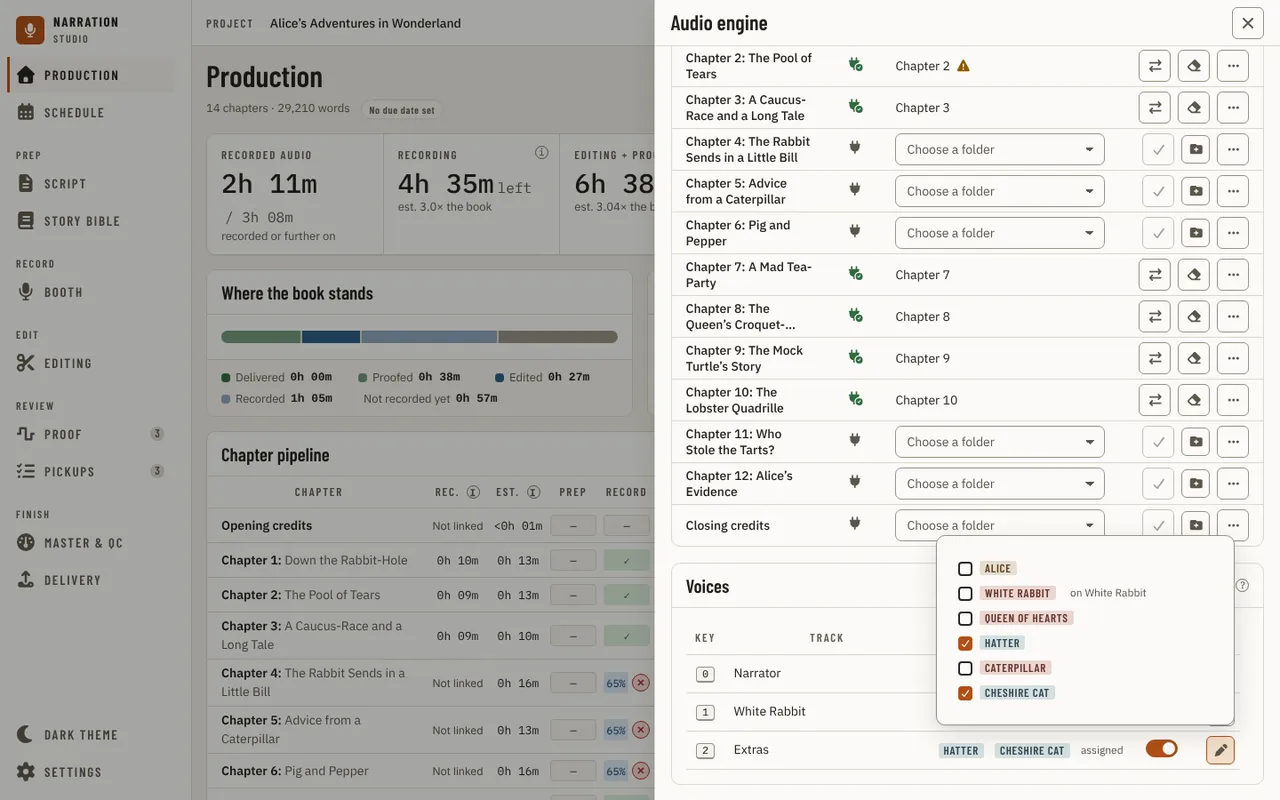
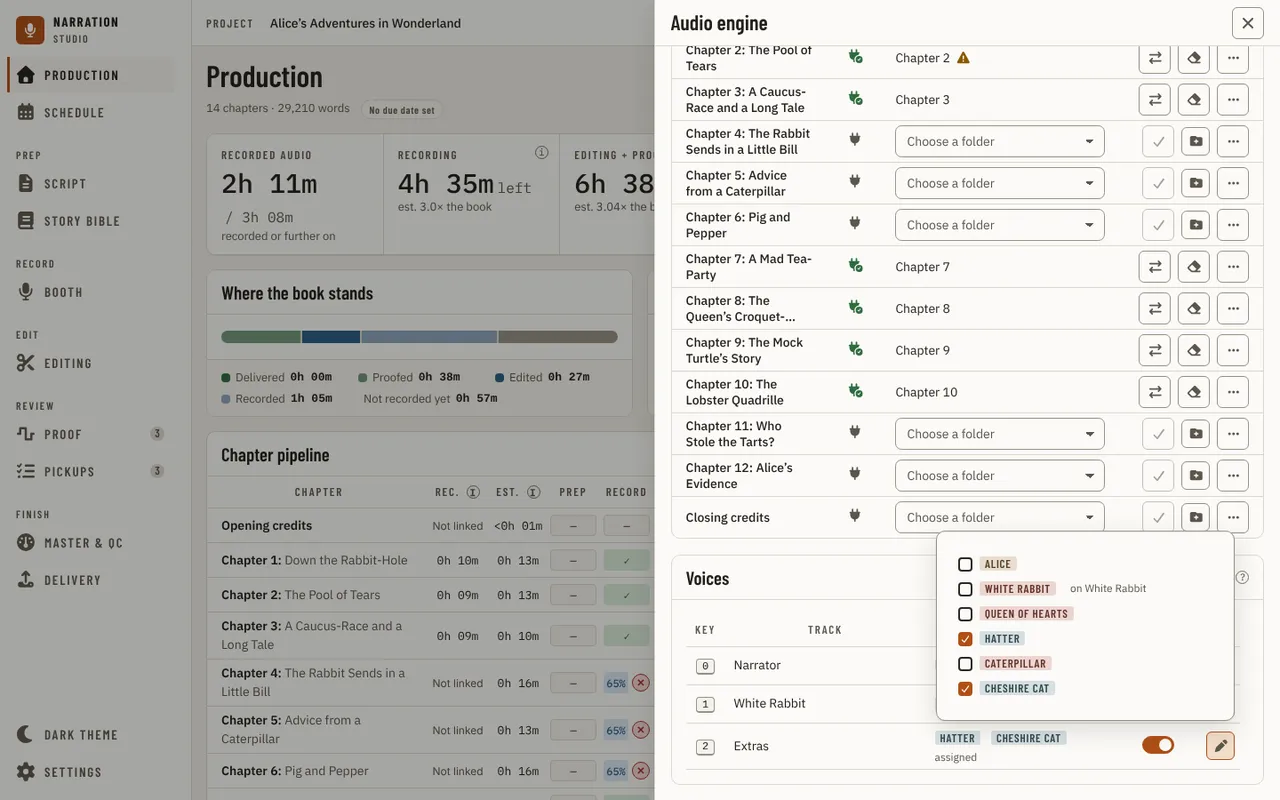
fix(ui): say what the Voice column, the Not a voice badge and the disabled edit button mean (#3875)

diff --git a/src/studio/ui/src/components/engine/VoicesCard.tsx b/src/studio/ui/src/components/engine/VoicesCard.tsx
@@ -34,6 +34,8 @@ const DIMMED = 'text-[var(--text-muted)]';
 const RECORDING_REASON = 'A take is recording. Stop it before you change which tracks are voices.';
 /** What the switch says it does, short: a hint wider or taller than this hides the switches of the rows above it. */
 const SWITCH_HINT = 'Counts as a voice. Turn off for a track that is not one (a music bed).';
+/** What the "Not a voice" badge says of its row. */
+const NOT_A_VOICE_HINT = 'Turned off as a voice: no key, no character, and the Booth does not list it. Turn its switch back on to use it.';
 /** The explanation behind the card's help button: a shorter form of the Settings row's "?" text. */
 const SWITCH_HELP =
   'Each switch says whether a track of the folder counts as a voice. Turn it off for a track that is not one, such as a music bed or room tone: it gets no number key, records no character, and the Booth does not list it. The voices after it each take the key before theirs.';
@@ -180,13 +182,13 @@ export function VoicesCard({
             </p>
           ) : (
             <div className="max-h-[min(60vh,26rem)] overflow-auto">
-              <Table label={`Voices of ${current?.chapter.title ?? ''}`} columns={narrow ? ['auto', '7.25rem'] : ['2.75rem', 'auto', 'auto', '4.5rem', '3rem']}>
+              <Table label={`Voices of ${current?.chapter.title ?? ''}`} columns={narrow ? ['auto', '7.25rem'] : ['2.75rem', 'auto', 'auto', '5rem', '3rem']}>
                 <TableHead sticky>
                   <TableRow>
                     {!narrow && <TableHeader>Key</TableHeader>}
                     <TableHeader>{narrow ? 'Track and characters' : 'Track'}</TableHeader>
                     {!narrow && <TableHeader>Characters</TableHeader>}
-                    {!narrow && <TableHeader>Voice</TableHeader>}
+                    {!narrow && <TableHeader info={SWITCH_HINT}>Voice</TableHeader>}
                     <TableHeader hiddenLabel={narrow ? 'Voice and actions' : 'Actions'} />
                   </TableRow>
                 </TableHead>
@@ -255,7 +257,12 @@ export function VoicesCard({
 }
 
 function VoiceCharacters({ voice }: { voice: Voice }) {
-  if (voice.notVoice) return <StatusBadge tone="neutral" label="Not a voice" />;
+  if (voice.notVoice)
+    return (
+      <TooltipTarget text={NOT_A_VOICE_HINT}>
+        <StatusBadge tone="neutral" label="Not a voice" />
+      </TooltipTarget>
+    );
   if (voice.characters.length === 0) return <span style={{ color: 'var(--text-muted)' }}>{voice.narrator ? 'Narration' : 'No character'}</span>;
   return (
     <span className="flex flex-wrap items-center gap-1">
@@ -325,6 +332,7 @@ function CharacterPicker({
   if (voice.notVoice) {
     const reason = 'Not a voice: it records no character. Turn it back on to choose one.';
     const name = voice.name.trim() === '' ? `Choose who ${placeName} records` : `Choose who the ${shortName(placeName)} track records`;
+    // IconButton shows its disabledReason as a tooltip itself.
     return <IconButton label={name} action="edit" size="sm" disabledReason={reason} />;
   }
   const label = voice.narrator

diff --git a/src/studio/ui/src/components/engine/VoicesCard.test.tsx b/src/studio/ui/src/components/engine/VoicesCard.test.tsx
@@ -315,6 +315,20 @@ describe('the Voices card', () => {
     expect(handlers.onNotAVoice).toHaveBeenCalledWith('queen', false, expect.any(String));
   });
 
+  // #3828 finding 7: nothing at the control said what it does.
+  it('the Voice column, the Not a voice badge and the disabled edit button each say what they mean on hover', async () => {
+    draw({ layout: 'folders', narratorCharacter: '', narratorGuids: [], notVoiceGuids: ['queen'], tracks: [] });
+    const user = userEvent.setup();
+    await user.hover(within(screen.getByRole('table')).getByText('Not a voice'));
+    expect(await screen.findByText(/Turned off as a voice: no key, no character/)).toBeTruthy();
+    await user.unhover(within(screen.getByRole('table')).getByText('Not a voice'));
+    await user.hover(screen.getByRole('button', { name: 'Choose who the Queen track records' }));
+    expect(await screen.findByText('Not a voice: it records no character. Turn it back on to choose one.')).toBeTruthy();
+    await user.unhover(screen.getByRole('button', { name: 'Choose who the Queen track records' }));
+    await user.hover(within(screen.getByRole('table')).getByRole('button', { name: 'About the Voice column' }));
+    expect(await screen.findByText('Counts as a voice. Turn off for a track that is not one (a music bed).')).toBeTruthy();
+  });
+
   it('a marked Narrator has no key 0', () => {
     draw({ layout: 'folders', narratorCharacter: '', narratorGuids: [], notVoiceGuids: ['nar'], tracks: [] });
     const rows = within(screen.getByRole('table')).getAllByRole('row').slice(1);

diff --git a/src/studio/ui/tests/visual/drivers/engine.ts b/src/studio/ui/tests/visual/drivers/engine.ts
@@ -96,6 +96,8 @@ export const engineDrivers: Record<string, Driver> = {
     await table.scrollIntoViewIfNeeded();
     await table.getByRole('switch', { name: 'Extras counts as a voice' }).click();
     await table.getByText('Not a voice').waitFor();
+    // The notice the press gives covers the row's switch and edit button for its few seconds; the state is the row without it.
+    await page.getByText('is turned off as a voice').waitFor({ state: 'hidden', timeout: 15_000 });
   },
   'voice-folders-picker': async (page) => {
     await page.goto('/?mockVoiceFolders=1');

diff --git a/docs/guides/using-the-app/navigation.md b/docs/guides/using-the-app/navigation.md
@@ -394,7 +394,7 @@ characters until it is renamed in REAPER.
 
 The card lists the folder's tracks in either layout: in Flat too, when a chapter is linked to a folder with tracks of its own (a track another chapter is linked to is left out), since the Booth records on one of them. Every track in the folder is a voice unless you say it is not. The **Voice** switch on a row is on for each; turn it off for a track that
 is not a voice, such as a music bed or room tone. The row stays in the list, dimmed and marked **Not a voice**, with no key and no
-characters to choose, and the Booth does not offer it: Record never arms it, and a folder whose tracks are all turned off is refused in either layout: Record says to turn one back on in this card (in Flat, or to link the chapter to a track of its own). Turning a voice off or on says so in a message, and when keys moved it names the voices whose key changed ("Keys now: 1 Hatter"), says key 0 has no track when the Narrator goes with no other, and says when no voice is left. The **?** beside the chapter picker says what the switch does (it is there once a chapter is linked to a folder). Turn the switch back on and it is a voice again. The mark follows
+characters to choose, and the Booth does not offer it: Record never arms it, and a folder whose tracks are all turned off is refused in either layout: Record says to turn one back on in this card (in Flat, or to link the chapter to a track of its own). Turning a voice off or on says so in a message, and when keys moved it names the voices whose key changed ("Keys now: 1 Hatter"), says key 0 has no track when the Narrator goes with no other, and says when no voice is left. Hovering the **i** on the Voice column, the **Not a voice** badge or a marked row's disabled edit button says what each means. The **?** beside the chapter picker says what the switch does (it is there once a chapter is linked to a folder). Turn the switch back on and it is a voice again. The mark follows
 the track if you rename it in REAPER, and it holds for every chapter folder that track is in. In a window 30 rem (480 px) wide or less the Key column goes, a track's characters sit under its name, and the switch sits beside the edit button. While a take is recording the Voice switches are disabled (a tooltip says why): stop the take first.
 
 ![The Voices card for a Voice folders project: Chapter 1's tracks with their keys and characters](../../images/ui/engine-panel-voices.webp)
